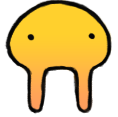
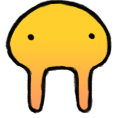
网页图标

diff --git a/index.html/index.html b/index.html/index.html
@@ -1,6 +1,8 @@
 <!DOCTYPE HTML>
 <html>
 <head>
+    <link rel="icon" href="micro.ico" type="image/x-icon">  //在网页标题左侧显示图标
+    <link rel="shortcut icon" href="micro.ico" type="image/x-icon">  //在收藏夹显示图标
     <title>豆花汤茶座</title>
     <meta http-equiv="Content-Type" content="text/html; charset=utf-8" />
 	<style>
